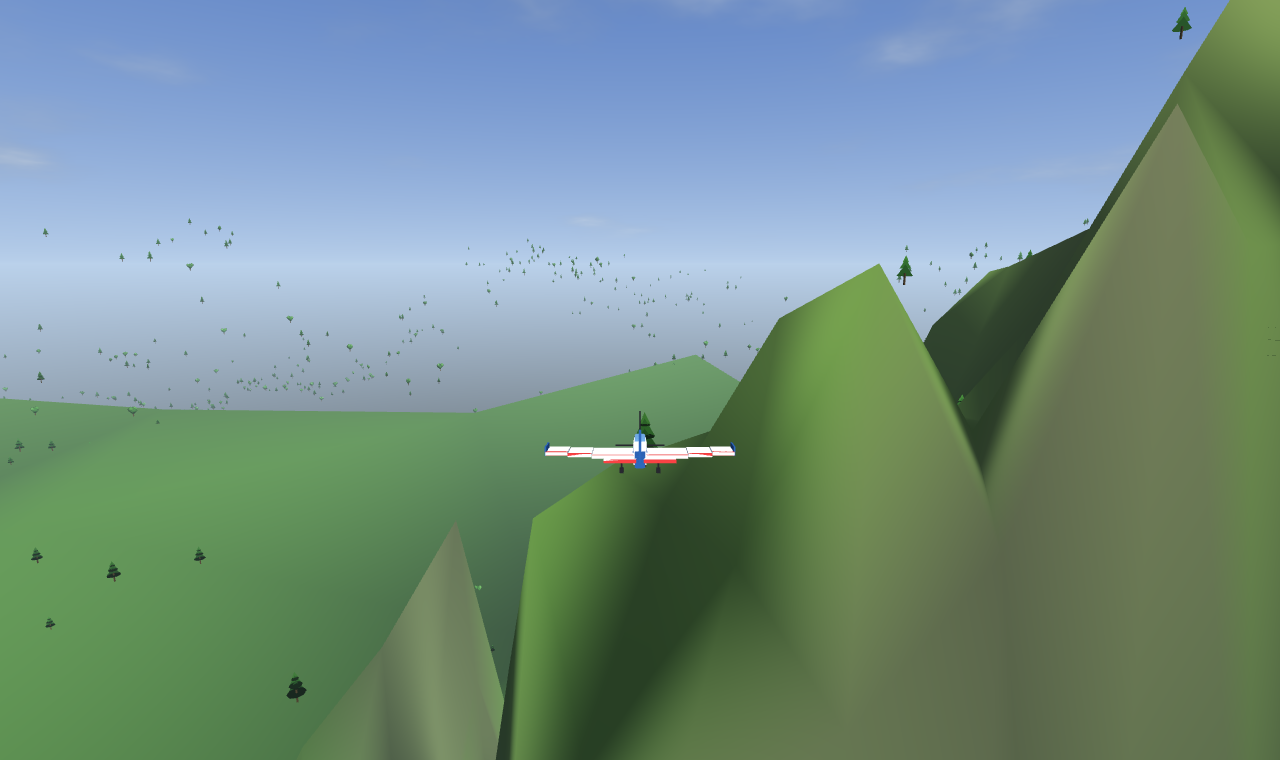
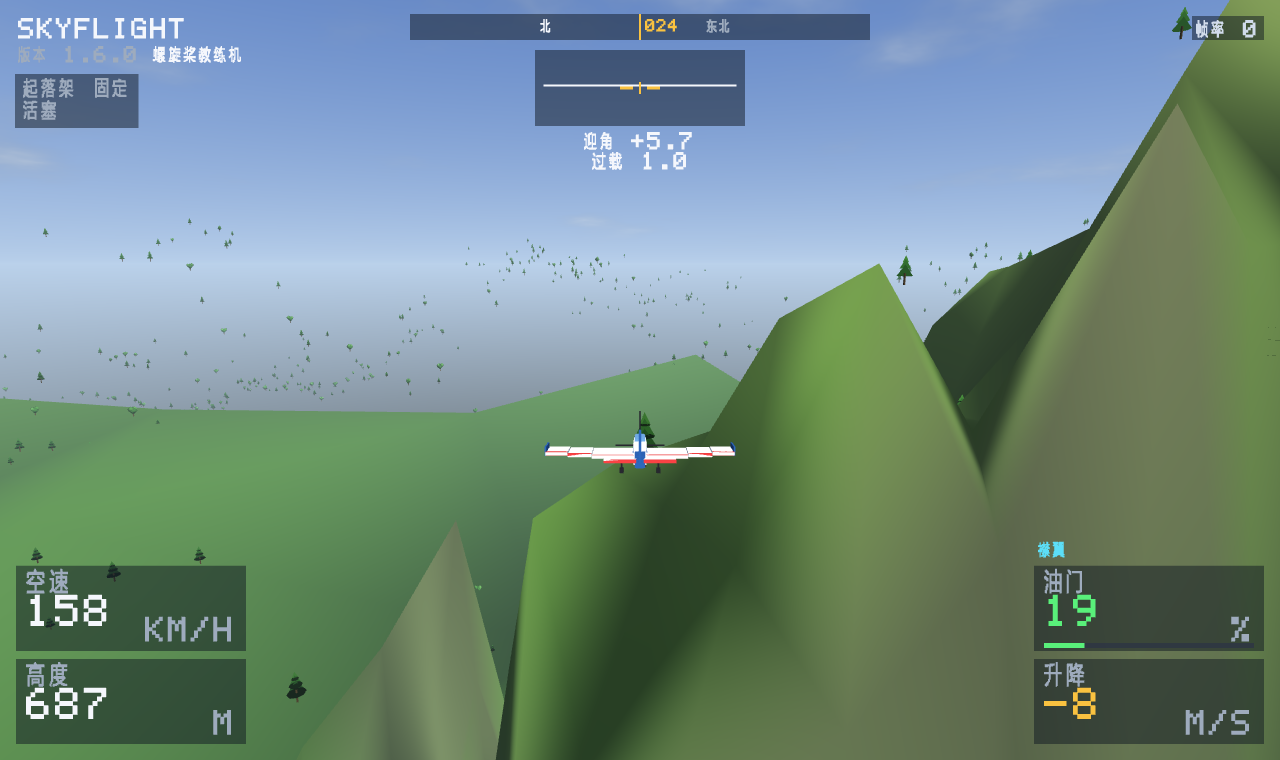
SkyFlight v1.6.1 — restore the instrument panel
Fixed
- The entire instrument panel had disappeared in v1.6.0. When the particle pass
  was added to draw(), it replaced the HUD block at the end of the method instead
  of being inserted before it, so draw_hud() was never called. Nothing raised an
  error and nothing was logged; the panel, compass, version number and gear
  readout were simply gone.
- draw_hud is restored at the end of draw(), after the particles. It must be last
  so it draws on top of the 3D scene.
- A single HUD error no longer turns the panel off permanently. The old except
  clause set show_hud = False on the first failure, so one transient problem hid
  the panel for the rest of the session. It now prints the reason for the first
  three failures and only disables the HUD after 60 consecutive failures.

Added
- A regression guard in tests/hud_layout.py, because a missing draw call is
  invisible to every other test:
    * draw_hud must appear in the AST of draw()  -- catches the call being
      deleted or overwritten
    * the bottom-left panel region must contain more than 2000 dark pixels after
      draw() -- catches the call existing but never reaching the screen
    * show_hud must still be True afterwards -- catches it being silently
      disabled
  Both checks fail on the v1.6.0 code and pass after the fix.

Verified: HUD layout (with the new guard), sound, particles, fullscreen border,
scenery, spawn fit, 10/10 flight physics, aircraft check, spawn check, i18n,
[…]

diff --git a/tests/hud_layout.py b/tests/hud_layout.py
@@ -69,6 +69,48 @@ for sp in specs.CATALOG:
     g.craft.gear = 1.0
     glfw.terminate()
 
+# ---------- 关键回归：draw() 必须真的把 HUD 画出来
+# 这里的教训：加新绘制代码时很容易把 draw() 末尾的仪表盘那段覆盖掉，
+# 而且**不会报任何错** —— 界面就那么安静地消失了（v1.6.0 真实发生过）。
+print()
+print('  draw() 是否真的调用了仪表盘（防止再次被覆盖）:')
+import inspect
+g = appmod.SkyFlightApp()
+g.init_gl()
+
+# 用 AST 静态检查：draw 函数体里必须出现 draw_hud 调用
+import ast
+import textwrap
+src = inspect.getsource(type(g).draw)
+tree = ast.parse(textwrap.dedent(src))
+found_call = False
+for node in ast.walk(tree):
+    if isinstance(node, ast.Call):
+        f = node.func
+        name = ''
+        if isinstance(f, ast.Attribute):
+            name = f.attr
+        elif isinstance(f, ast.Name):
+            name = f.id
+        if name == 'draw_hud':
+            found_call = True
+check('draw() 源码里有 draw_hud 调用', found_call)
+
+# 运行时检查：画一帧之后，画面上必须出现 HUD 的深色面板像素
+g.draw()
+GL.glReadBuffer(GL.GL_BACK)
+w, h = glfw.get_framebuffer_size(g.window)
+d = GL.glReadPixels(0, 0, w, h, GL.GL_RGB, GL.GL_UNSIGNED_BYTE)
+a = np.frombuffer(d, dtype=np.uint8).reshape(h, w, 3)[::-1]
+panel = a[h - 150:h - 40, 10:240]          # 左下角空速面板区域
+dark = int(((panel[:, :, 0] < 70) & (panel[:, :, 1] < 80)
+            & (panel[:, :, 2] < 90)).sum())
+print('     左下角面板区域深色像素 = %d' % dark)
+check('画面左下角真的画出了面板', dark > 2000, '%d 个像素' % dark)
+check('show_hud 没有被意外关掉', bool(g.show_hud))
+
+glfw.terminate()
+
 print()
 print('  HUD 排版检查: %s' % ('全部通过' if ok else '有失败项'))
 sys.exit(0 if ok else 1)

diff --git a/skyflight/app.py b/skyflight/app.py
@@ -746,8 +746,23 @@ class SkyFlightApp:
             self.gear_mesh.draw()
 
         # ---------- 粒子特效（爆炸 / 扬尘 / 烟 / 凝结尾）
-        # 放在最后画，这样烟和火会盖在飞机和地景之上（爆炸本来就该挡住机身）。
+        # 放在飞机之后画，这样烟和火会盖在飞机和地景之上（爆炸本来就该挡住机身）。
         self._draw_particles(VP)
+
+        # ---------- 仪表盘叠加层（必须最后画，3D 场景之上）
+        if self.show_hud:
+            try:
+                hudmod.draw_hud(self.hud, self.hud_shader, self.craft,
+                                float(fb_w), float(fb_h), self.fps)
+            except Exception as e:
+                # 不要把 HUD 直接永久关掉 —— 那样一次偶发错误就再也看不到仪表盘了。
+                # 这里只在启动头几次失败时禁用，并打印原因，方便定位问题。
+                self._hud_errors = getattr(self, '_hud_errors', 0) + 1
+                if self._hud_errors <= 3:
+                    print('  [HUD] 绘制失败（第 %d 次）: %s' % (self._hud_errors, e))
+                if self._hud_errors > 60:
+                    self.show_hud = False
+                    print('  [HUD] 连续失败太多次，已关闭仪表盘')
 
     def _draw_particles(self, VP):
         """画粒子：方片展开到相机平面，所以要把相机的右/上向量传进去"""

diff --git a/tests/i18n_check.py b/tests/i18n_check.py
@@ -135,7 +135,7 @@ src2 = io.open(os.path.join(base, 'skyflight', 'app.py'), encoding='utf-8').read
 # 启动诊断/开发提示允许保留中文（它们只出现在黑色控制台里，
 # 不进入游戏界面，所以不参与游戏内语言切换）
 ALLOW = ('[i18n]', '出错了', '中/英', '提示', '机型', '起落架',
-         '[音效]', '[aircraft]', '[gear]', '[water]')
+         '[音效]', '[aircraft]', '[gear]', '[water]', '[HUD]')
 for m in re.finditer(r"print\(\s*'([^']*[\u4e00-\u9fff][^']*)'", src2):
     lit = m.group(1)
     if any(a in lit for a in ALLOW):

diff --git a/skyflight/version.py b/skyflight/version.py
@@ -1,5 +1,5 @@
 # -*- coding: utf-8 -*-
 """版本号（改这里同时更新窗口标题、游戏内显示、启动画面）"""
 
-VERSION = '1.6.0'
+VERSION = '1.6.1'
 BUILD_DATE = '2026-10-03'

diff --git a/CHANGELOG.md b/CHANGELOG.md
@@ -1,5 +1,39 @@
 # Changelog
 
+## v1.6.1 — 2026-10-03
+
+### Fixed
+
+- **The entire instrument panel had disappeared.** When the particle pass was
+  added to `draw()` in v1.6.0, it replaced the HUD block at the end of the
+  method instead of being inserted before it — so `draw_hud()` was **never
+  called**. Nothing raised an error and nothing was logged; the panel, compass,
+  version number and gear readout were simply gone.
+  The HUD call is restored at the end of `draw()`, after the particles (it must
+  be last, so it draws on top of the 3D scene).
+
+- **A single HUD error no longer turns the panel off permanently.** The old
+  `except` clause set `show_hud = False` on the very first failure, so one
+  transient problem would hide the panel for the rest of the session. It now
+  prints the reason for the first three failures and only disables the HUD after
+  60 consecutive failures.
+
+### Added
+
+- A regression guard in `tests/hud_layout.py` for exactly this class of bug,
+  because a missing draw call is invisible to every other test:
+
+  | Check | What it catches |
+  |---|---|
+  | `draw_hud` appears in the AST of `draw()` | the call being deleted or overwritten |
+  | the bottom-left panel region contains > 2000 dark pixels after `draw()` | the call existing but not reaching the screen |
+  | `show_hud` is still True afterwards | the panel being silently disabled |
+
+  Both checks fail on the v1.6.0 code and pass after the fix, so the bug cannot
+  come back unnoticed.
+
+---
+
 ## v1.6.0 — 2026-10-03
 
 ### Added
